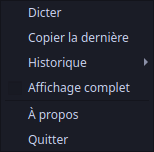
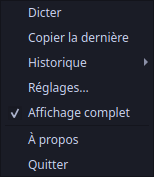
Add settings dialog with searchable multi-language selection (detect-then-snap), fix tray history menu dead over DBus, responsiveness bench

diff --git a/scripts/bench_responsiveness.py b/scripts/bench_responsiveness.py
@@ -1,0 +1,109 @@
+"""Measure GUI-thread starvation during decode — numbers, not vibes.
+
+Replicates the daemon's threading: Qt event loop on the main thread, engine
+decode in a worker. A 33 ms QTimer heartbeat runs throughout; any gap well
+above 33 ms means the GUI thread was starved (GIL or otherwise) and clicks,
+animations, and the tray menu would freeze for that long.
+
+Usage: QT_QPA_PLATFORM=offscreen poetry run python scripts/bench_responsiveness.py
+"""
+
+import sys
+import threading
+import time
+import wave
+from pathlib import Path
+
+import numpy as np
+from PySide6.QtCore import QTimer
+from PySide6.QtWidgets import QApplication
+
+REPO = Path(__file__).resolve().parents[1]
+SAMPLE = REPO / "vendor" / "qwen-asr" / "samples" / "jfk.wav"
+TARGET_S = 66
+
+
+def load_take() -> np.ndarray:
+    with wave.open(str(SAMPLE), "rb") as w:
+        rate = w.getframerate()
+        audio = np.frombuffer(w.readframes(w.getnframes()), dtype=np.int16)
+    reps = int(TARGET_S * rate / len(audio)) + 1
+    return np.tile(audio, reps)[: TARGET_S * rate]
+
+
+class Heartbeat:
+    def __init__(self) -> None:
+        self.gaps: list[float] = []
+        self._last = time.monotonic()
+        self.timer = QTimer()
+        self.timer.setInterval(33)
+        self.timer.timeout.connect(self._tick)
+        self.timer.start()
+
+    def _tick(self) -> None:
+        now = time.monotonic()
+        self.gaps.append(now - self._last)
+        self._last = now
+
+    def report(self, label: str) -> None:
+        gaps = np.array(self.gaps)
+        bad = gaps[gaps > 0.1]
+        print(
+            f"  [{label}] ticks={len(gaps)} max_gap={gaps.max() * 1000:.0f}ms "
+            f"p99={np.percentile(gaps, 99) * 1000:.0f}ms "
+            f"gaps>100ms={len(bad)} (total starved {bad.sum():.1f}s)"
+        )
+        self.gaps.clear()
+        self._last = time.monotonic()
+
+
+def main() -> None:
+    app = QApplication(sys.argv)
+    audio = load_take()
+    print(f"take: {len(audio) / 16000:.0f}s of tiled JFK")
+
+    print("loading engine…")
+    from tuparles.engine import GpuEngine
+
+    engine = GpuEngine()
+    hb = Heartbeat()
+
+    scenarios = [
+        ("batched (current)", lambda: engine.transcribe(audio)),
+        ("sequential (pre-fix)", lambda: _sequential(engine, audio)),
+    ]
+    for label, fn in scenarios:
+        for switch_interval in (0.005, 0.0005):
+            sys.setswitchinterval(switch_interval)
+            done = threading.Event()
+            result = {}
+
+            def work(fn=fn, result=result, done=done):
+                t0 = time.monotonic()
+                result["text_len"] = len(fn())
+                result["wall"] = time.monotonic() - t0
+                done.set()
+
+            hb.gaps.clear()
+            hb._last = time.monotonic()
+            threading.Thread(target=work, daemon=True).start()
+            while not done.is_set():
+                app.processEvents()
+                time.sleep(0.001)
+            print(
+                f"{label} | switchinterval={switch_interval}: "
+                f"decode {result['wall']:.1f}s, {result['text_len']} chars"
+            )
+            hb.report("during decode")
+
+
+def _sequential(engine, audio: np.ndarray) -> str:
+    pcm = audio.astype(np.float32) / 32768.0
+    segments, _ = engine._model.transcribe(
+        pcm, beam_size=5, vad_filter=True, initial_prompt=engine._prompt
+    )
+    return " ".join(s.text.strip() for s in segments).strip()
+
+
+if __name__ == "__main__":
+    main()

diff --git a/src/tuparles/settings_ui.py b/src/tuparles/settings_ui.py
@@ -1,0 +1,88 @@
+"""Settings dialog: language selection (more knobs will move in here).
+
+Searchable checklist of Whisper's 100 languages. Empty selection = full
+auto-detect; one = forced; several = detect-then-snap (see languages.py).
+Settings are read by the engine on every decode — changes apply to the
+next take, no daemon restart.
+"""
+
+from PySide6.QtCore import Qt
+from PySide6.QtWidgets import (
+    QDialog,
+    QDialogButtonBox,
+    QLabel,
+    QLineEdit,
+    QListWidget,
+    QListWidgetItem,
+    QPushButton,
+    QVBoxLayout,
+)
+
+from tuparles import settings
+from tuparles.languages import LANGUAGES
+
+
+class SettingsDialog(QDialog):
+    def __init__(self, parent=None) -> None:
+        super().__init__(parent)
+        self.setWindowTitle("TuParles — Réglages")
+        self.setMinimumSize(380, 480)
+
+        layout = QVBoxLayout(self)
+        layout.addWidget(QLabel("<b>Langues de dictée</b>"))
+        hint = QLabel(
+            "Aucune cochée = détection automatique (100 langues). "
+            "Plusieurs = la détection reste confinée à votre sélection."
+        )
+        hint.setWordWrap(True)
+        layout.addWidget(hint)
+
+        self._search = QLineEdit(placeholderText="Filtrer… (nom ou code)")
+        self._search.textChanged.connect(self._filter)
+        layout.addWidget(self._search)
+
+        self._list = QListWidget()
+        selected = set(settings.get("languages") or [])
+        # Selected first, then the crowd alphabetically.
+        ordered = sorted(
+            LANGUAGES.items(), key=lambda kv: (kv[0] not in selected, kv[1])
+        )
+        for code, name in ordered:
+            item = QListWidgetItem(f"{name}  ({code})")
+            item.setData(Qt.UserRole, code)
+            item.setFlags(item.flags() | Qt.ItemIsUserCheckable)
+            item.setCheckState(
+                Qt.Checked if code in selected else Qt.Unchecked
+            )
+            self._list.addItem(item)
+        layout.addWidget(self._list)
+
+        clear = QPushButton("Tout décocher (auto)")
+        clear.clicked.connect(self._clear_all)
+        layout.addWidget(clear)
+
+        buttons = QDialogButtonBox(
+            QDialogButtonBox.Ok | QDialogButtonBox.Cancel
+        )
+        buttons.accepted.connect(self._save)
+        buttons.rejected.connect(self.reject)
+        layout.addWidget(buttons)
+
+    def _filter(self, text: str) -> None:
+        needle = text.strip().casefold()
+        for i in range(self._list.count()):
+            item = self._list.item(i)
+            item.setHidden(needle not in item.text().casefold())
+
+    def _clear_all(self) -> None:
+        for i in range(self._list.count()):
+            self._list.item(i).setCheckState(Qt.Unchecked)
+
+    def _save(self) -> None:
+        codes = [
+            self._list.item(i).data(Qt.UserRole)
+            for i in range(self._list.count())
+            if self._list.item(i).checkState() == Qt.Checked
+        ]
+        settings.put("languages", codes)
+        self.accept()

diff --git a/src/tuparles/languages.py b/src/tuparles/languages.py
@@ -1,0 +1,53 @@
+"""Whisper's language catalog + the detect-then-snap constraint logic.
+
+Multi-language selection semantics (faster-whisper only accepts ONE forced
+language per decode, or full auto-detect):
+- nothing selected → auto-detect among all 100 (today's behavior)
+- one selected    → hard-force it
+- several         → detect, then snap to the most probable *selected* one.
+  Kills the "Вт"-class bug: noisy outro audio can wander to any of 100
+  languages under auto-detect, but snapping confines it to your set.
+"""
+
+# Code → English name, per Whisper's tokenizer.
+LANGUAGES = {
+    "en": "English", "zh": "Chinese", "de": "German", "es": "Spanish",
+    "ru": "Russian", "ko": "Korean", "fr": "French", "ja": "Japanese",
+    "pt": "Portuguese", "tr": "Turkish", "pl": "Polish", "ca": "Catalan",
+    "nl": "Dutch", "ar": "Arabic", "sv": "Swedish", "it": "Italian",
+    "id": "Indonesian", "hi": "Hindi", "fi": "Finnish", "vi": "Vietnamese",
+    "he": "Hebrew", "uk": "Ukrainian", "el": "Greek", "ms": "Malay",
+    "cs": "Czech", "ro": "Romanian", "da": "Danish", "hu": "Hungarian",
+    "ta": "Tamil", "no": "Norwegian", "th": "Thai", "ur": "Urdu",
+    "hr": "Croatian", "bg": "Bulgarian", "lt": "Lithuanian", "la": "Latin",
+    "mi": "Maori", "ml": "Malayalam", "cy": "Welsh", "sk": "Slovak",
+    "te": "Telugu", "fa": "Persian", "lv": "Latvian", "bn": "Bengali",
+    "sr": "Serbian", "az": "Azerbaijani", "sl": "Slovenian", "kn": "Kannada",
+    "et": "Estonian", "mk": "Macedonian", "br": "Breton", "eu": "Basque",
+    "is": "Icelandic", "hy": "Armenian", "ne": "Nepali", "mn": "Mongolian",
+    "bs": "Bosnian", "kk": "Kazakh", "sq": "Albanian", "sw": "Swahili",
+    "gl": "Galician", "mr": "Marathi", "pa": "Punjabi", "si": "Sinhala",
+    "km": "Khmer", "sn": "Shona", "yo": "Yoruba", "so": "Somali",
+    "af": "Afrikaans", "oc": "Occitan", "ka": "Georgian", "be": "Belarusian",
+    "tg": "Tajik", "sd": "Sindhi", "gu": "Gujarati", "am": "Amharic",
+    "yi": "Yiddish", "lo": "Lao", "uz": "Uzbek", "fo": "Faroese",
+    "ht": "Haitian Creole", "ps": "Pashto", "tk": "Turkmen", "nn": "Nynorsk",
+    "mt": "Maltese", "sa": "Sanskrit", "lb": "Luxembourgish", "my": "Myanmar",
+    "bo": "Tibetan", "tl": "Tagalog", "mg": "Malagasy", "as": "Assamese",
+    "tt": "Tatar", "haw": "Hawaiian", "ln": "Lingala", "ha": "Hausa",
+    "ba": "Bashkir", "jw": "Javanese", "su": "Sundanese", "yue": "Cantonese",
+}
+
+
+def snap_language(
+    all_probs: list[tuple[str, float]], selected: list[str]
+) -> str | None:
+    """Most probable language among the user's selection, None if the
+    detector offers nothing from the set (caller falls back to auto)."""
+    sel = set(selected)
+    best = max(
+        (lp for lp in all_probs if lp[0] in sel),
+        key=lambda lp: lp[1],
+        default=None,
+    )
+    return best[0] if best else None

diff --git a/tests/test_languages.py b/tests/test_languages.py
@@ -1,0 +1,25 @@
+from tuparles.languages import LANGUAGES, snap_language
+
+
+class TestCatalog:
+    def test_core_languages_present(self):
+        assert LANGUAGES["fr"] == "French"
+        assert LANGUAGES["en"] == "English"
+        assert len(LANGUAGES) == 100
+
+
+class TestSnap:
+    PROBS = [("ru", 0.41), ("fr", 0.32), ("en", 0.20), ("it", 0.07)]
+
+    def test_snaps_to_best_selected(self):
+        # The Вт scenario: detector says Russian, user only speaks fr/en.
+        assert snap_language(self.PROBS, ["fr", "en"]) == "fr"
+
+    def test_respects_ranking_within_selection(self):
+        assert snap_language(self.PROBS, ["en", "it"]) == "en"
+
+    def test_nothing_matches_falls_back(self):
+        assert snap_language(self.PROBS, ["ja", "ko"]) is None
+
+    def test_empty_probs(self):
+        assert snap_language([], ["fr"]) is None

diff --git a/src/tuparles/engine.py b/src/tuparles/engine.py
@@ -14,6 +14,7 @@ from pathlib import Path
 
 import numpy as np
 
+from tuparles import settings
 from tuparles.config import (
     QWEN_BINARY,
     QWEN_MODEL_DIR,
@@ -21,6 +22,7 @@ from tuparles.config import (
     SAMPLE_RATE,
     VOCAB_FILE,
 )
+from tuparles.languages import snap_language
 
 
 def _vocab_prompt() -> str | None:
@@ -81,8 +83,27 @@ class GpuEngine:
             beam_size=5,
             vad_filter=True,
             initial_prompt=self._prompt,
+            language=self._constrain_language(pcm),
         )
         return " ".join(s.text.strip() for s in segments).strip()
+
+    def _constrain_language(self, pcm: np.ndarray) -> str | None:
+        """Apply the user's language selection (settings, hot-reloaded).
+
+        None = auto-detect. One selected = forced. Several = detect then
+        snap to the most probable selected one — an extra encoder pass on
+        one 30 s window, ~tens of ms on GPU.
+        """
+        selected = settings.get("languages") or []
+        if not selected:
+            return None
+        if len(selected) == 1:
+            return selected[0]
+        try:
+            _, _, all_probs = self._model.detect_language(pcm)
+            return snap_language(all_probs or [], selected)
+        except Exception:
+            return None  # detector hiccup → auto, never block the take
 
     def transcribe_partial(self, audio: np.ndarray) -> str:
         """Fast greedy decode of the growing buffer for live partials.
@@ -101,6 +122,7 @@ class GpuEngine:
             condition_on_previous_text=False,
             without_timestamps=True,
             initial_prompt=self._prompt,
+            language=self._constrain_language(pcm),
         )
         return " ".join(s.text.strip() for s in segments).strip()
 

diff --git a/src/tuparles/tray.py b/src/tuparles/tray.py
@@ -63,7 +63,15 @@ class Tray(QObject):
         self._copy_act.setEnabled(history.last() is not None)
 
         self._hist_menu = self._menu.addMenu("Historique")
+        # GNOME tray menus travel over DBus (AppIndicator): submenu
+        # aboutToShow never reaches us, so a lazily-built menu stays empty
+        # forever. Build eagerly, refresh after every landed transcript;
+        # keep the hook for desktops where it does fire.
         self._hist_menu.aboutToShow.connect(self._rebuild_history)
+        self._rebuild_history()
+
+        self._settings_act = self._menu.addAction("Réglages…")
+        self._settings_act.triggered.connect(self._open_settings)
 
         self._full_act = self._menu.addAction("Affichage complet")
         self._full_act.setCheckable(True)
@@ -89,6 +97,14 @@ class Tray(QObject):
 
     def on_final(self, _text: str) -> None:
         self._copy_act.setEnabled(True)
+        self._rebuild_history()
+
+    def _open_settings(self) -> None:
+        from tuparles.settings_ui import SettingsDialog
+
+        self._settings_dialog = SettingsDialog()  # ref kept: GC-proof
+        self._settings_dialog.show()
+        self._settings_dialog.raise_()
 
     def _on_view_toggled(self, checked: bool) -> None:
         mode = "full" if checked else "minimal"

diff --git a/src/tuparles/settings.py b/src/tuparles/settings.py
@@ -6,6 +6,7 @@ from pathlib import Path
 
 _DEFAULTS = {
     "view": "minimal",  # minimal = one-line pill | full = whole wrapped text
+    "languages": [],  # ISO codes; empty = auto-detect among all 100
 }
 
 